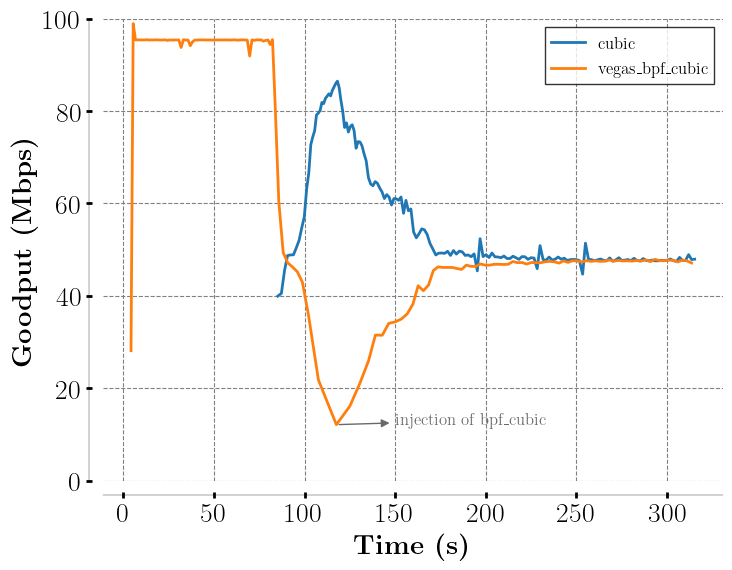
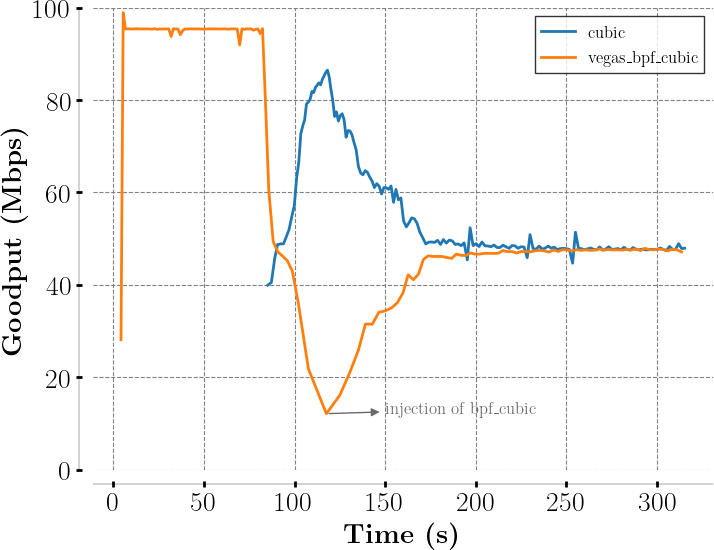
colum width

diff --git a/evaluation.tex b/evaluation.tex
@@ -390,7 +390,7 @@ varying from 10ms to 100ms.
 
 \begin{figure}[!t]
   \begin{center}
-    \includegraphics[width=6cm]{pretty_plotify/plots/vegas_cubic.png}
+    \includegraphics[width=\columnwidth]{pretty_plotify/plots/vegas_cubic.png}
   \end{center}
   \caption{\tcpls hosts can exchange congestion control schemes and activate them during a \tcpls session.}
   \label{fig:vegasCubic}
